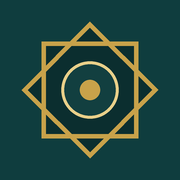
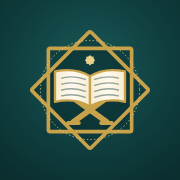
Add files via upload

Changed region(s): [[0.1111, 0.1111, 0.8889, 0.8889]]

diff --git a/index.html b/index.html
@@ -12,6 +12,7 @@
 <title>مراجعة التفسير</title>
 <script>try{var k=localStorage.getItem("tq-skin");if(k&&k!=="asil")document.documentElement.dataset.skin=k}catch(e){}</script>
 <link rel="manifest" href="manifest.webmanifest">
+<link rel="icon" type="image/svg+xml" href="icons/logo.svg">
 <link rel="icon" type="image/png" href="icons/icon-192.png">
 <link rel="apple-touch-icon" href="icons/apple-touch-icon.png">
 <link rel="preconnect" href="https://fonts.googleapis.com">
@@ -62,7 +63,7 @@ header{background:var(--deep);color:var(--hd-ink);position:relative;overflow:hid
 header .band{position:relative;z-index:1}
 .top{display:flex;justify-content:space-between;align-items:center;gap:12px;flex-wrap:wrap}
 .brand{display:flex;align-items:center;gap:12px}
-.brand svg{width:44px;height:44px;flex:none}
+.brand svg{width:52px;height:52px;flex:none;filter:drop-shadow(0 2px 6px rgba(0,0,0,.25))}
 .brand b{font-family:var(--f-head);font-size:19px}
 nav{display:flex;gap:6px;flex-wrap:wrap}
 nav a{color:var(--hd-ink);text-decoration:none;padding:8px 14px;border-radius:10px;min-height:40px;display:inline-flex;align-items:center;font-size:15px}
@@ -212,13 +213,13 @@ table.perm td:first-child{text-align:start}
 .staff li{display:flex;justify-content:space-between;align-items:center;gap:10px;padding:8px 0;border-top:1px solid var(--line)}
 .staff{list-style:none;margin:0 0 12px;padding:0}
 footer a{color:inherit}
-footer{display:flex;flex-wrap:wrap;gap:10px 18px;align-items:center;justify-content:space-between;color:var(--mute);font-size:14px;border-top:1px solid var(--line)}
+footer{display:flex;flex-direction:column;gap:10px;align-items:center;text-align:center;color:var(--mute);font-size:14px;border-top:1px solid var(--line)}
 footer .credit{font-family:var(--f-head);color:var(--gold2);font-weight:700;font-size:15px}
-.skins{display:flex;gap:6px;align-items:center}
-.skins button{display:inline-flex;align-items:center;gap:6px;min-height:36px;padding:4px 10px;border-radius:99px;border:1px solid var(--line);background:var(--card);cursor:pointer;font-size:13px}
+.skins{display:flex;gap:6px;align-items:center;flex-wrap:wrap;margin-top:10px;font-size:13px;color:var(--hd-sub)}
+.skins button{display:inline-flex;align-items:center;gap:6px;min-height:36px;padding:4px 10px;border-radius:99px;border:1px solid rgba(255,255,255,.22);background:rgba(255,255,255,.08);color:var(--hd-ink);cursor:pointer;font-size:13px}
 .skins button[aria-pressed=true]{border-color:var(--gold);box-shadow:0 0 0 2px var(--gold) inset}
 .skins i{width:16px;height:16px;border-radius:50%;flex:none;border:2px solid}
-.foot-main{flex:1 1 320px}
+.foot-main{max-width:70ch}
 </style>
 </head>
 <body>
@@ -234,7 +235,7 @@ footer .credit{font-family:var(--f-head);color:var(--gold2);font-weight:700;font
  <svg class="pattern" aria-hidden="true"><rect width="100%" height="100%" fill="url(#pat)"/></svg>
  <div class="band wrap">
   <div class="top">
-   <div class="brand"><svg viewBox="-50 -50 100 100" style="color:var(--gold)"><use href="#rub" x="-50" y="-50" width="100" height="100"/></svg><b>مراجعة التفسير</b></div>
+   <div class="brand"><svg class="logo" viewBox="56 56 400 400" aria-hidden="true"><g transform="translate(256 256) scale(1) translate(-256 -256)"><rect x="130" y="130" width="252" height="252" rx="6" style="fill:var(--deep2)" fill-opacity=".4" transform="rotate(0 256 256)"/><rect x="130" y="130" width="252" height="252" rx="6" style="fill:var(--deep2)" fill-opacity=".4" transform="rotate(45 256 256)"/><rect x="130" y="130" width="252" height="252" rx="6" fill="none" style="stroke:var(--gold)" stroke-width="11" stroke-linejoin="round" transform="rotate(0 256 256)"/><rect x="130" y="130" width="252" height="252" rx="6" fill="none" style="stroke:var(--gold)" stroke-width="11" stroke-linejoin="round" transform="rotate(45 256 256)"/><circle cx="256" cy="256" r="150" fill="none" style="stroke:var(--gold3)" stroke-width="3" stroke-dasharray="2 9" stroke-linecap="round" opacity=".8"/><g style="stroke:var(--gold)" stroke-width="17" stroke-linecap="round"><line x1="200" y1="276" x2="306" y2="352"/><line x1="312" y1="276" x2="206" y2="352"/></g><g style="stroke:var(--gold)" stroke-width="12" stroke-linecap="round"><line x1="190" y1="356" x2="222" y2="356"/><line x1="290" y1="356" x2="322" y2="356"/></g><path style="fill:var(--star-ink);stroke:var(--gold)" d="M256 214 C226 196 186 192 150 200 L150 292 C186 284 226 288 256 306 Z" stroke-width="7" stroke-linejoin="round"/><path style="fill:var(--star-ink);stroke:var(--gold)" d="M256 214 C286 196 326 192 362 200 L362 292 C326 284 286 288 256 306 Z" stroke-width="7" stroke-linejoin="round"/><line x1="256" y1="214" x2="256" y2="306" style="stroke:var(--gold)" stroke-width="6"/><path d="M170 220 C196 214 222 216 242 224 M342 220 C316 214 290 216 270 224 M170 238 C196 232 222 234 242 242 M342 238 C316 232 290 234 270 242 M170 256 C196 250 222 252 242 260 M342 256 C316 250 290 252 270 260 M170 274 C196 268 222 270 242 278 M342 274 C316 268 290 270 270 278" fill="none" style="stroke:var(--deep)" stroke-opacity=".45" stroke-width="4" stroke-linecap="round"/><g transform="translate(256 166)"><rect x="-11" y="-11" width="22" height="22" style="fill:var(--gold3)"/><rect x="-11" y="-11" width="22" height="22" style="fill:var(--gold3)" transform="rotate(45)"/></g></g></svg><b>مراجعة التفسير</b></div>
    <nav id="nav">
     <a href="#home" data-v="home">الرئيسية</a>
     <a href="#board" data-v="board">لوحة الصدارة</a>
@@ -242,6 +243,11 @@ footer .credit{font-family:var(--f-head);color:var(--gold2);font-weight:700;font
     <a href="#admin" data-v="admin" id="navAdmin" hidden>الإدارة</a>
    </nav>
   </div>
+  <div class="skins" role="group" aria-label="مظهر الموقع"><span>المظهر:</span>
+  <button type="button" data-skin="asil"><i style="background:#0f3d3e;border-color:#c8a24a"></i>الأصيل</button>
+  <button type="button" data-skin="makhtuta"><i style="background:#f7f0e1;border-color:#6b1f24"></i>المخطوطة</button>
+  <button type="button" data-skin="layl"><i style="background:#0c1630;border-color:#5ec4c8"></i>الليل</button>
+ </div>
   <div class="hero" id="hero">
    <div>
     <h1>راجع التفسير واختبر حفظك</h1>
@@ -425,12 +431,7 @@ footer .credit{font-family:var(--f-head);color:var(--gold2);font-weight:700;font
 </main>
 <footer class="band wrap">
  <div class="foot-main">نص القرآن الكريم بالرسم العثماني من مشروع quran-json (Tanzil). أسئلة التفسير مستخرجة من ملفات يرفعها المشرفون. · <a href="#account">حسابي ودخول المشرفين</a></div>
- <div class="skins" role="group" aria-label="مظهر الموقع"><span>المظهر:</span>
-  <button type="button" data-skin="asil"><i style="background:#0f3d3e;border-color:#c8a24a"></i>الأصيل</button>
-  <button type="button" data-skin="makhtuta"><i style="background:#f7f0e1;border-color:#6b1f24"></i>المخطوطة</button>
-  <button type="button" data-skin="layl"><i style="background:#0c1630;border-color:#5ec4c8"></i>الليل</button>
- </div>
- <div class="credit" style="flex-basis:100%;text-align:center">تصميم طارق الشمري</div>
+ <div class="credit">تصميم طارق الشمري</div>
 </footer>
 <script>
 (function(){var M={asil:"#0f3d3e",makhtuta:"#6b1f24",layl:"#0c1630"};
@@ -441,10 +442,10 @@ document.querySelectorAll(".skins button").forEach(function(b){b.onclick=functio
 apply(document.documentElement.dataset.skin||"asil");})();
 </script>
 
-<script src="config.js?v=9"></script>
+<script src="config.js?v=11"></script>
 <script src="https://cdn.jsdelivr.net/npm/@supabase/supabase-js@2.45.4/dist/umd/supabase.min.js"></script>
-<script src="app.js?v=9"></script>
-<script src="plan.js?v=9"></script>
-<script src="account.js?v=9"></script>
+<script src="app.js?v=11"></script>
+<script src="plan.js?v=11"></script>
+<script src="account.js?v=11"></script>
 </body>
 </html>

diff --git a/sw.js b/sw.js
@@ -1,7 +1,7 @@
 // عامل الخدمة: يجعل الموقع قابلاً للتثبيت ويعمل دون إنترنت (اختبار الحفظ وآخر بنك أسئلة محفوظ)
-const VERSION = 'tq-v9';
+const VERSION = 'tq-v11';
 const SHELL = [
-  './', './index.html', './app.js?v=9', './plan.js?v=9', './account.js?v=9', './config.js?v=9', './manifest.webmanifest',
+  './', './index.html', './app.js?v=11', './plan.js?v=11', './account.js?v=11', './config.js?v=11', './manifest.webmanifest',
   './icons/icon-192.png', './icons/icon-512.png', './icons/apple-touch-icon.png'
 ];
 const CDN = ['cdn.jsdelivr.net', 'cdnjs.cloudflare.com', 'fonts.googleapis.com', 'fonts.gstatic.com'];
